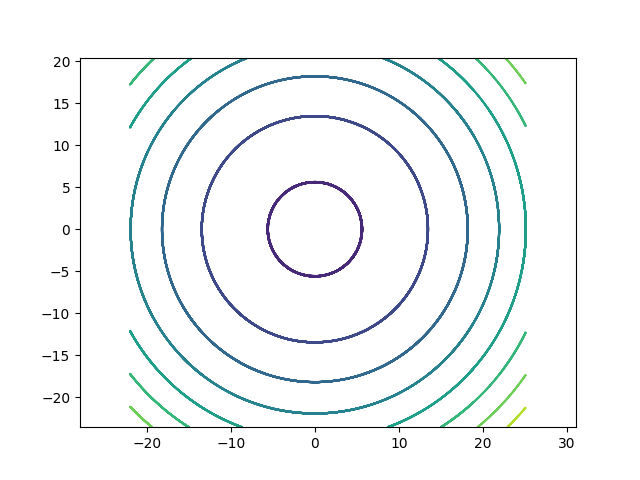
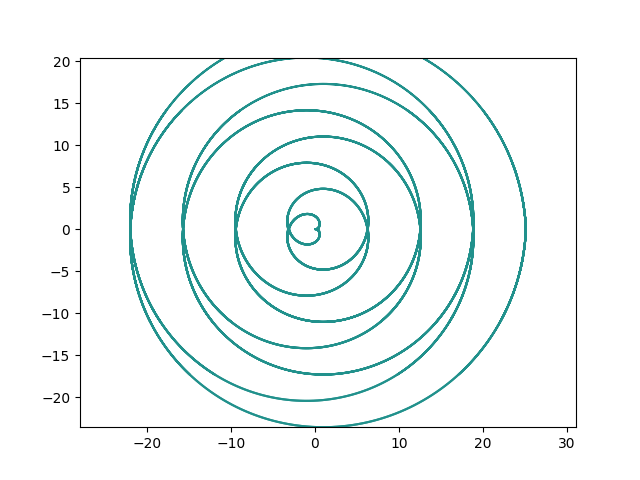
lab 6

diff --git a/lab_6_osn_task4.py b/lab_6_osn_task4.py
@@ -5,17 +5,16 @@ def arh_spiral(k, N):
     f = np.linspace(0, 8 * np.pi, N)
     x = []
     y = []
-    f_xy = []
     for i in range(0, N):
         x.append(k * f[i] * np.cos(f[i]))
         y.append(k * f[i] * np.sin(f[i]))
+
         X, Y = np.meshgrid(x, y)
 
-        f_xy.append(X ** 2 + Y ** 2 - (k * f[i]) ** 2)
+    f_xy = X ** 2 + Y ** 2 - (k * f) ** 2
 
-    plt.contour(X, Y, f_xy)
+    plt.contour(X, Y, f_xy, levels=0)
     plt.axis('equal')
     plt.savefig('arh_spiral.png')
 
-arh_spiral(k=1, N=500)
-
+arh_spiral(k=1, N=1000)

diff --git a/lab_6_dop_task1.py b/lab_6_dop_task1.py
@@ -1,0 +1,18 @@
+import matplotlib.pyplot as plt
+import numpy as np
+import random
+
+def lissazhu(B, t, N, b, a=1, A=1, delta=np.pi/2):
+    t = np.linspace(0, t, N)
+    X = []
+    Y = []
+    for i in t:
+        x = A * np.sin(a * i + delta)
+        y = B * np.sin(b * i)
+        X.append(x)
+        Y.append(y)
+    plt.plot(X, Y)
+    plt.axis('equal')
+    plt.savefig('lissazhu.png')
+
+lissazhu(B=12, t=50, N=500, b=0.6)
